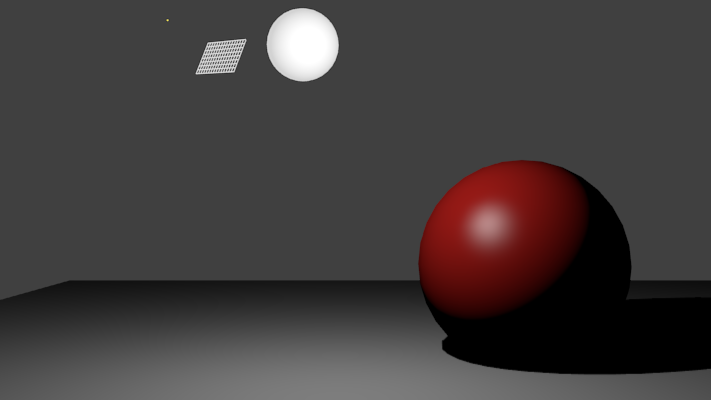
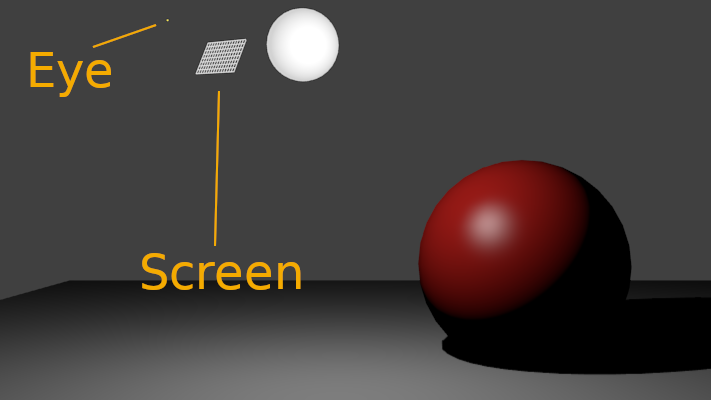
Maybe final!?

diff --git a/dod.md b/dod.md
@@ -35,15 +35,15 @@
 
 ### Scene <!-- .element: class="white-bg" -->
 
-```cpp
+<pre><code class="cpp" data-trim data-noescape>
 class Scene {
-  std::vector<TriangleVertices> triangleVerts_;
-  std::vector<TriangleNormals> triangleNormals_;
-  std::vector<Material> triangleMaterials_;
-
-  std::vector<Sphere> spheres_;
-  std::vector<Material> sphereMaterials_;
-```
+<div class="fragment highlight-current-code">  std::vector&lt;TriangleVertices> triangleVerts_;
+</div><div class="fragment highlight-current-code">  std::vector&lt;TriangleNormals> triangleNormals_;
+  std::vector&lt;Material> triangleMaterials_;
+</div>
+<div class="fragment highlight-current-code">  std::vector&lt;Sphere> spheres_;
+</div><div class="fragment highlight-current-code">  std::vector&lt;Material> sphereMaterials_;
+</div></code></pre>
 
 ---
 

diff --git a/conclusion.md b/conclusion.md
@@ -7,6 +7,7 @@
 ### Favourite?
 
 * All of the above!!
+* C++ is best when we can blend all its features
 
 </div>
   
@@ -158,12 +159,12 @@ ja skip
 <ul>
 <li><code>u &lt; 0</code> unpredictable</li>
 <li><code>u > 1</code> unpredictable</li>
-<li class="fragment"><code>(u &lt; 0 || u > 1)</code> <i>should be</i> predictable</li>
+<li class="fragment"><code>(u &lt; 0 || u > 1)</code> <i>should be</i> predictable*</li>
 <li class="fragment"><code>(u &lt; 0 || u > 1 || v &lt; 0 || u + v > 1)</code> more so</li>
 </ul>
 
-<div class="fragment">Super sensitive to compiler...<br>
-<code>(u &lt; 0) | (u > 1) | ...</code>
+<div class="fragment">* Provided compiler combines conditions...<br>
+<code class="fragment">(u &lt; 0) | (u > 1) | ...</code>
 </div>
 
 </div>

diff --git a/oo.md b/oo.md
@@ -106,7 +106,7 @@ Vec3 Renderer::radiance(
 <pre><code class="cpp" data-trim data-noescape>
 struct SpherePrimitive : Primitive {
   Sphere sphere;
-  Material material;
+  std::unique_ptr&lt;Material> material;
 
   [[nodiscard]]  
   bool intersect(const Ray &ray,
@@ -114,7 +114,7 @@ struct SpherePrimitive : Primitive {
     Hit hit;
 <div class="fragment highlight-current-code" data-fragment-index="1">    if (!sphere.intersect(ray, hit))
       return false;
-</div><div class="fragment highlight-current-code" data-fragment-index="2">    rec = IntersectionRecord{hit, material};
+</div><div class="fragment highlight-current-code" data-fragment-index="2">    rec = IntersectionRecord{hit, material.get()};
     return true;
 </div>  }
 };
